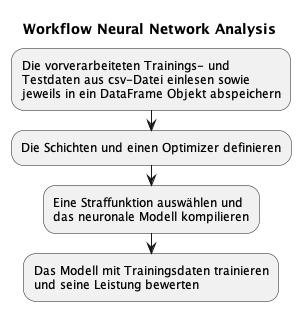
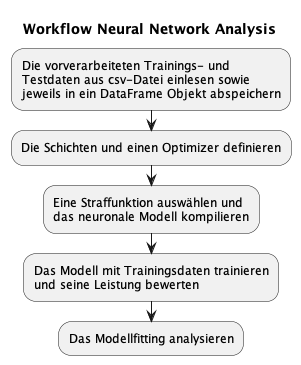
CheckModelFitting implemented - workflow is updated

Changed region(s): [[0.0299, 0.0579, 0.9867, 0.9839]]

diff --git a/Neural_Networks/src/neural_networks_analysis.py b/Neural_Networks/src/neural_networks_analysis.py
@@ -1,5 +1,6 @@
 import setup_utils_path
 from utils.src.data_utils import ReadCSVDataset
+from utils.src.result_utils import CheckModelFit
 import tensorflow as tf
 from tensorflow.keras.models import Sequential
 from tensorflow.keras.layers import Dense, Input
@@ -55,6 +56,12 @@ history = model.fit(X_train_std,
 # Auf den letzten accuracy_score des Trainings zugreifen. Annahme, dass dieser der beste accuracy_score ist.
 acc_train = history.history['accuracy'][-1]
 
-# Die Bewertungskriterien auf das Terminal ausgeben
-print(f"Loss: {loss}")
-print(f"Accuracy: {accuracy}")
+# -----------------------------------------------------
+# Das Modellfitting analysieren
+# -----------------------------------------------------
+# Die Leistung des Modells mit den Testdaten bewerten
+loss_test, acc_test = model.evaluate(X_test_std, y_test)
+
+# Bestimme das Modellfitting und gebe es auf das Terminal aus
+fit, threshold = CheckModelFit(acc_train*100, acc_test*100)
+print(f"Neural Networks: {fit}; underfit threshold = {threshold}%")
